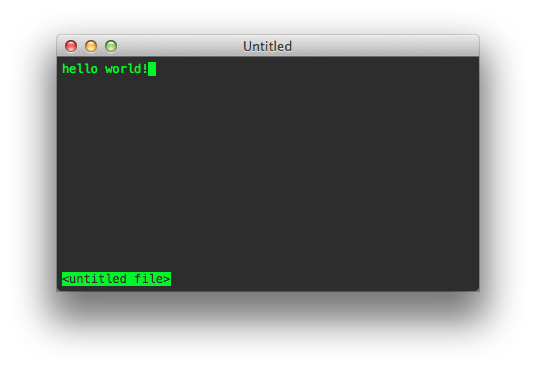
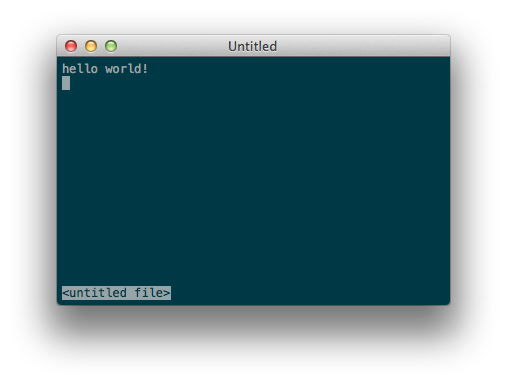
Edit

diff --git a/README.md b/README.md
@@ -25,11 +25,15 @@ It's just a grid of fixed-width text. That's it. There's no fancy GUI to manipul
 
 - Extremely efficient on resources
 
-  Draws fast as nightning, with a negligible re-drawing cost. Super low on memory. Isn't going to burn out your new laptop's CPU, and isn't going to run sluggishly on your 3-year-old desktop computer.
+  Draws fast as lightning, with a negligible re-drawing cost. Super low on memory. Isn't going to burn out your new laptop's CPU, and isn't going to run sluggishly on your 3-year-old desktop computer.
 
 - Dead-simple graphics API
 
   It's super easy to write code that draws exactly the kind of thing you want to, within the limitations. Anyone can hack on the rendering internals, since it lacks the complexity of WebKit. And it's [not going to look ugly again every 6 months](http://en.wikipedia.org/wiki/Planned_obsolescence), unlike *every website*.
+
+- It doesn't have to be ugly
+
+  Foreground and background colors are specified using 6-digit hex codes, just like in CSS, so you get way more color than you do in terminal emulators. Plus, there are many aesthetically pleasing monospace fonts.
 
 This does have its trade-offs, that's true: you can't read your code in Arial since the font must be monospace, you can't do super fancy CSS-17 animation tricks, and you can't draw rounded rectangles. But it's quite a worthwhile trade-off to get this level of simplicity, and all its accompanying benefits.
 
